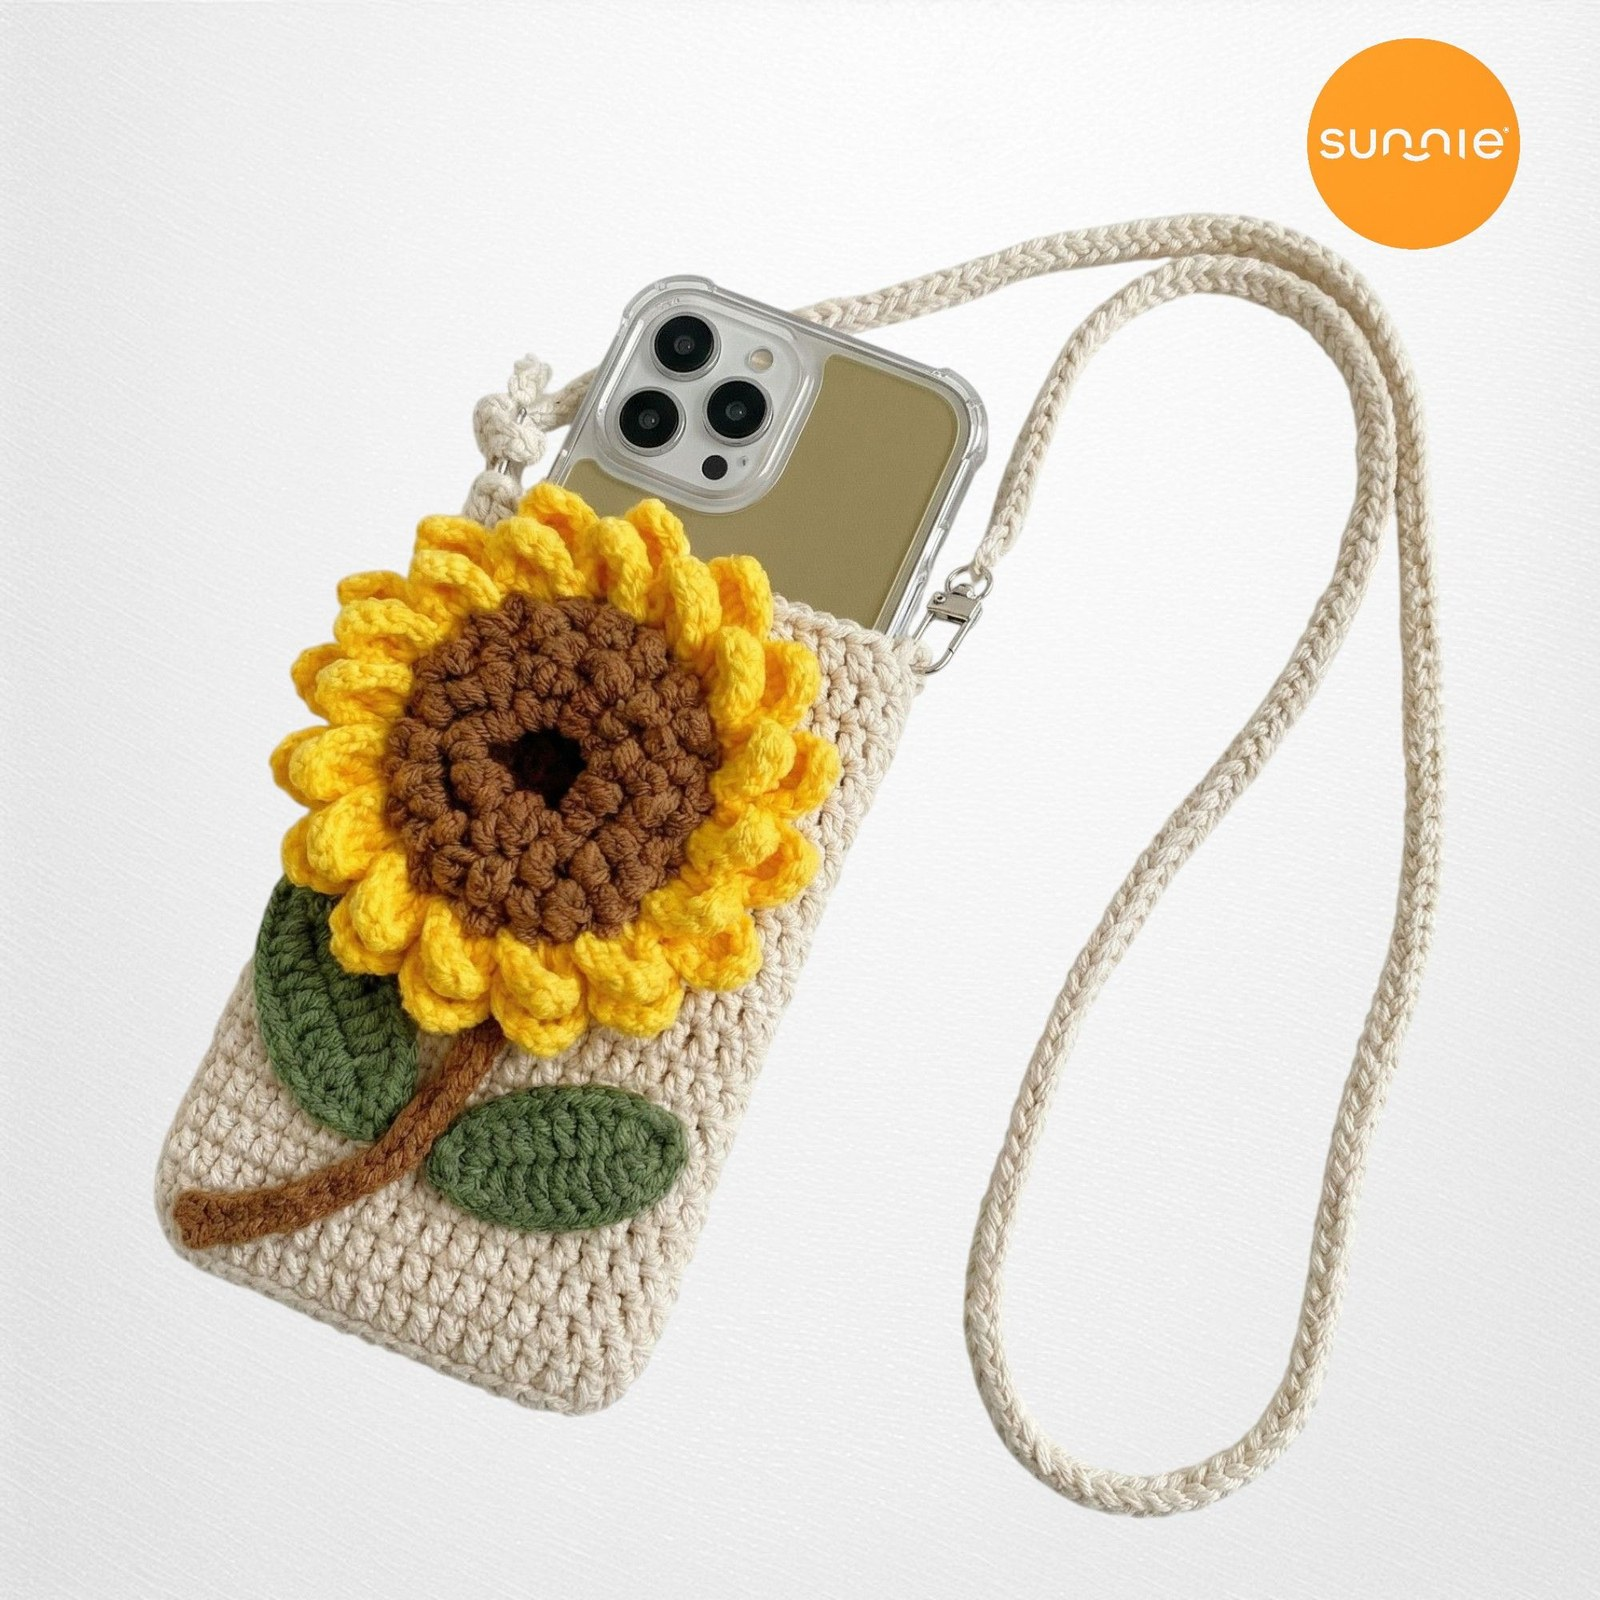
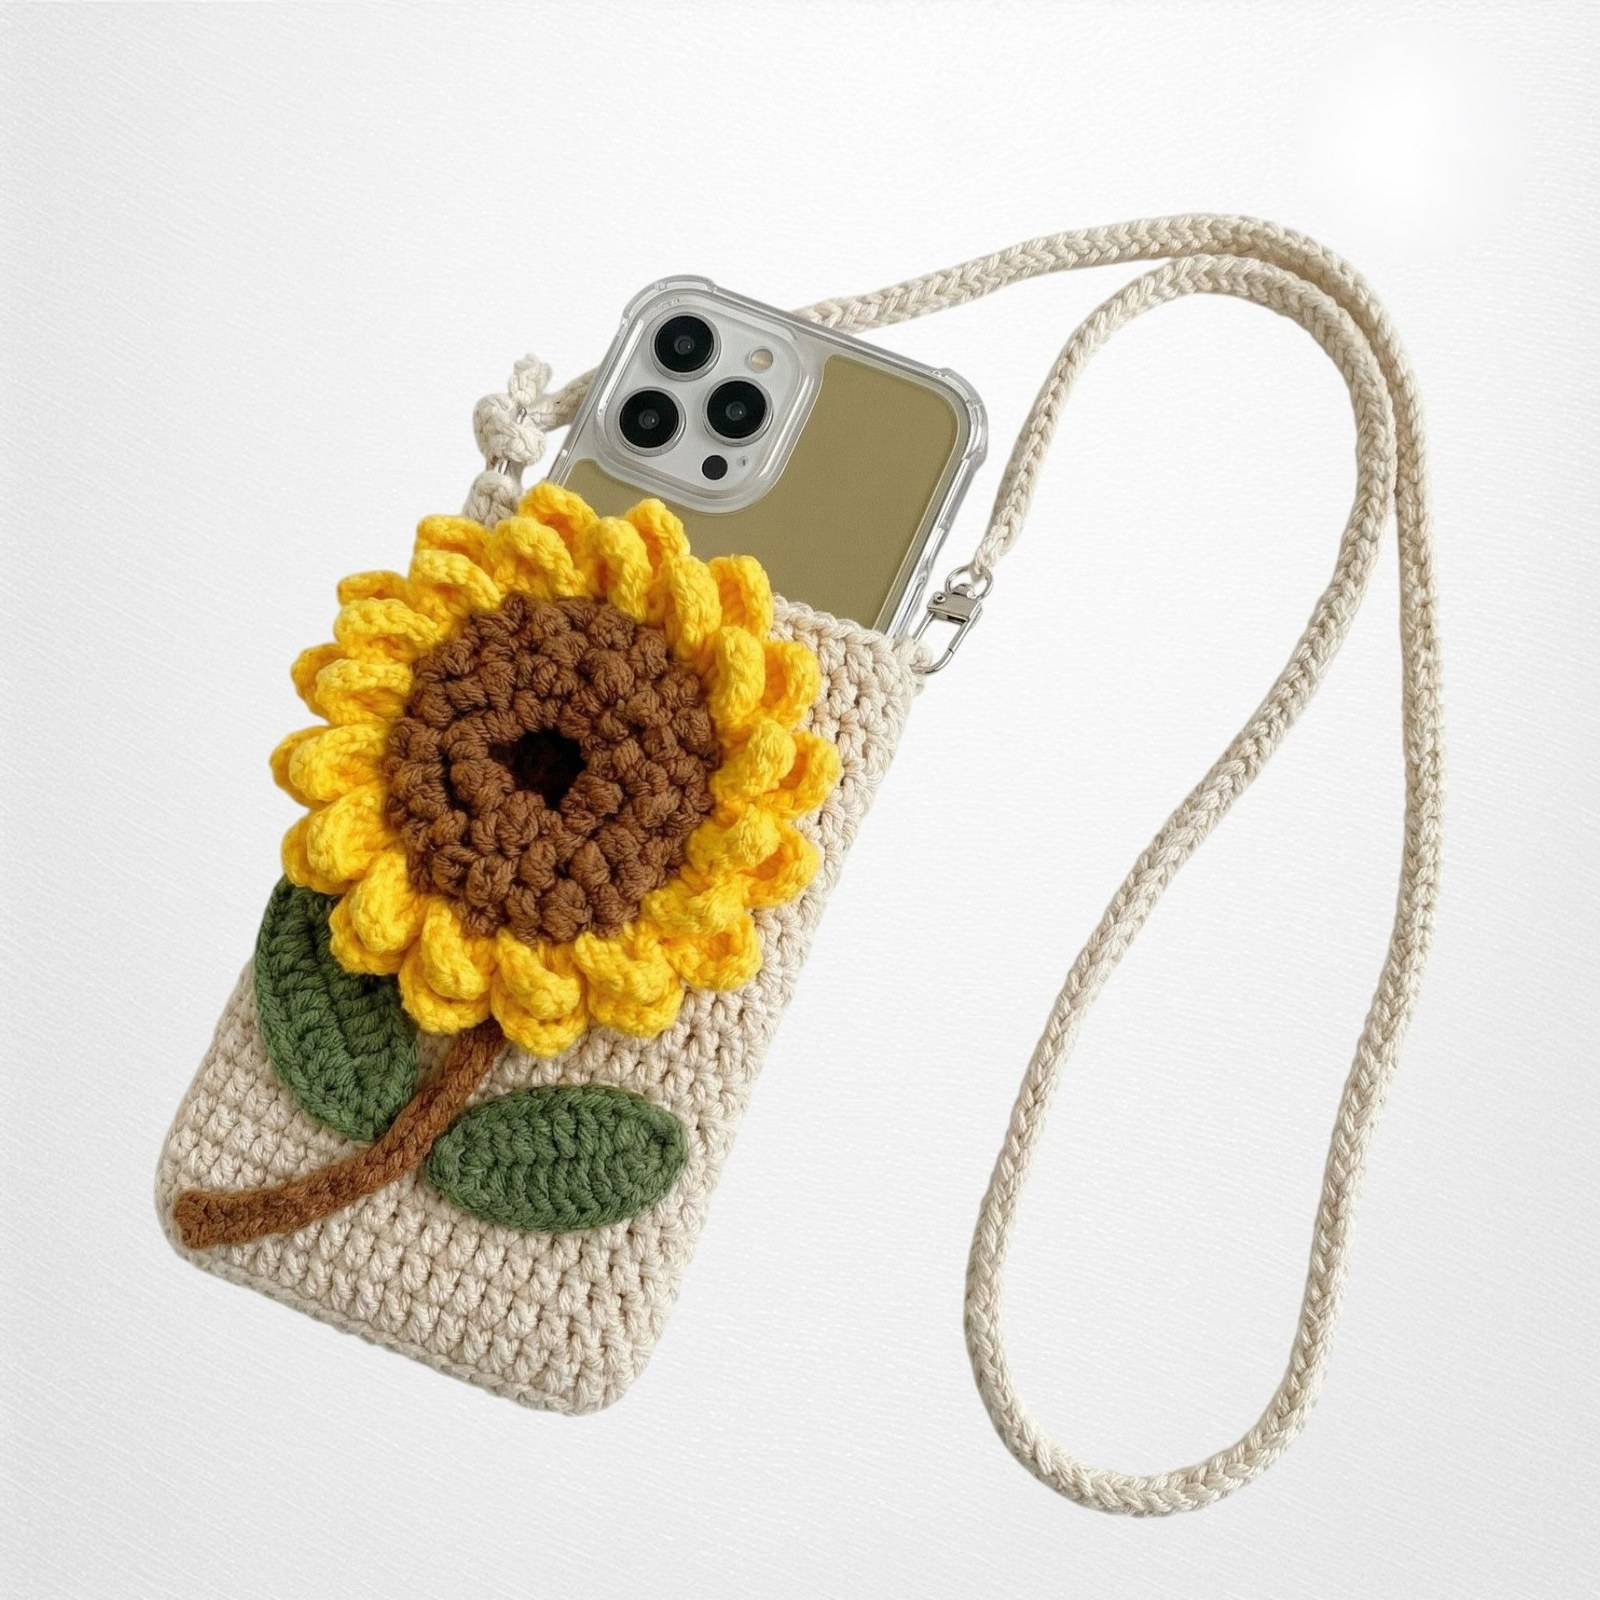
Petal Pockets: owner's second photo batch, Sunnie badges removed
Claude-Session: https://claude.ai/code/session_013Ai5AVsiZULjW3VsHRysAy

Changed region(s): [[0.8125, 0.0, 0.9688, 0.1562]]

diff --git a/src/data/landers.ts b/src/data/landers.ts
@@ -2100,7 +2100,7 @@ export const LANDERS: Lander[] = [
       h1: 'A crochet phone bag with a 3D rose or sunflower,',
       h1em: 'that carries your phone, cards and keys.',
       sub: 'Hui coils the rose petal by petal in soft pink, or layers the sunflower in rounds of yellow around a brown centre, then stitches it onto a cream bag with a green stem and leaves. A drawstring closes the top, and the strap is 110 cm.',
-      image: { src: 'landers/petal-pockets/petal-pockets-pair.jpg', alt: 'The rose bag and the sunflower bag hanging side by side from a wooden basket on a shelf' },
+      image: { src: 'landers/petal-pockets/petal-pockets-shelf.jpg', alt: 'The sunflower bag and the rose bag standing side by side on a wooden shelf, with their braided cream straps' },
       proof: { reviewer: 'Caitlin', date: '2026-02-13' },
     },
     story: {
@@ -2131,7 +2131,7 @@ export const LANDERS: Lander[] = [
       lede: 'Same bag, two flowers. Mix them in a bundle however you like.',
       cards: [
         { pick: 'Rose', title: 'Rose', text: 'A soft pink rose with spiralling, coiled petals, on a green stem with two leaves.', image: { src: 'landers/petal-pockets/petal-pockets-rose.jpg', alt: 'Cream crochet phone bag with a large pink 3D rose, a green stem and two leaves, on its braided strap' } },
-        { pick: 'Sunflower', title: 'Sunflower', text: 'A bright yellow sunflower with layered petals and a brown centre, on a brown stem with two leaves.', image: { src: 'products/3d-flower-crochet-phone-bag/3d-flower-crochet-phone-bag-03.jpg', alt: 'Cream crochet phone bag with a large yellow 3D sunflower and stem' } },
+        { pick: 'Sunflower', title: 'Sunflower', text: 'A bright yellow sunflower with layered petals and a brown centre, on a brown stem with two leaves.', image: { src: 'landers/petal-pockets/petal-pockets-sunflower.jpg', alt: 'Cream crochet phone bag with a large yellow 3D sunflower, a brown stem and two green leaves, on its braided strap' } },
       ],
       note: 'Can’t choose? Take two and get one of each.',
     },
@@ -2144,7 +2144,7 @@ export const LANDERS: Lander[] = [
         ['Gifts.', 'For a friend who loves flowers, or one who loves sunflowers in particular.'],
       ],
       images: [
-        { src: 'landers/petal-pockets/petal-pockets-rose-worn.jpg', alt: 'The rose bag worn crossbody over a grey sweatshirt, seen from behind' },
+        { src: 'landers/petal-pockets/petal-pockets-rose-worn-front.jpg', alt: 'The rose bag worn crossbody over a grey zip-up sweatshirt and skirt' },
         { src: 'landers/petal-pockets/petal-pockets-sunflower-worn.jpg', alt: 'The sunflower bag worn crossbody over a black top and a white ruffled skirt' },
       ],
     },
@@ -2154,7 +2154,7 @@ export const LANDERS: Lander[] = [
         'Hui crochets the cream bag first, then builds the flower on its own: the rose coiled petal by petal, or the sunflower in layered rounds around its centre. Last come the stem and the two leaves.',
         'Because a person shapes each flower, no two come out exactly alike.',
       ],
-      image: { src: 'products/3d-flower-crochet-phone-bag/3d-flower-crochet-phone-bag-08.jpg', alt: 'A hand holding the sunflower bag up close, showing the layered yellow petals and brown centre' },
+      image: { src: 'landers/petal-pockets/petal-pockets-sunflower-held.jpg', alt: 'A hand holding the sunflower bag up by its braided strap, showing the layered yellow petals and brown centre' },
     },
     offer: {
       h: 'Pick your bags',

diff --git a/src/i18n/de/landers.ts b/src/i18n/de/landers.ts
@@ -1719,7 +1719,7 @@ export const LANDERS_DE: Record<string, LanderDe> = {
       h1: 'Eine gehäkelte Handytasche mit 3D-Rose oder Sonnenblume,',
       h1em: 'die Handy, Karten und Schlüssel trägt.',
       sub: 'Hui formt die Rose Blatt für Blatt in zartem Rosa oder legt die Sonnenblume in gelben Runden um eine braune Mitte und näht sie dann auf eine cremefarbene Tasche mit Stiel und grünen Blättern. Ein Kordelzug schließt die Tasche oben, und der Gurt ist 110 cm lang.',
-      alt: 'Die Rosentasche und die Sonnenblumentasche nebeneinander an einem Holzkorb auf einem Regal',
+      alt: 'Die Sonnenblumentasche und die Rosentasche nebeneinander auf einem Holzregal, mit ihren geflochtenen cremefarbenen Gurten',
     },
     story: {
       h: 'Blumen, die du jeden Tag tragen kannst.',
@@ -1749,7 +1749,7 @@ export const LANDERS_DE: Record<string, LanderDe> = {
       lede: 'Dieselbe Tasche, zwei Blumen. Kombiniere sie im Set, wie du magst.',
       cards: [
         { title: 'Rose', text: 'Eine zartrosa Rose mit spiralförmig gewundenen Blütenblättern, an einem grünen Stiel mit zwei Blättern.', alt: 'Cremefarbene gehäkelte Handytasche mit großer rosa 3D-Rose, grünem Stiel und zwei Blättern, am geflochtenen Gurt' },
-        { title: 'Sonnenblume', text: 'Eine leuchtend gelbe Sonnenblume mit gelagerten Blütenblättern und brauner Mitte, an einem braunen Stiel mit zwei Blättern.', alt: 'Cremefarbene gehäkelte Handytasche mit großer gelber 3D-Sonnenblume und Stiel' },
+        { title: 'Sonnenblume', text: 'Eine leuchtend gelbe Sonnenblume mit gelagerten Blütenblättern und brauner Mitte, an einem braunen Stiel mit zwei Blättern.', alt: 'Cremefarbene gehäkelte Handytasche mit großer gelber 3D-Sonnenblume, braunem Stiel und zwei grünen Blättern, am geflochtenen Gurt' },
       ],
       note: 'Du kannst dich nicht entscheiden? Nimm zwei, je eine von beiden.',
     },
@@ -1762,7 +1762,7 @@ export const LANDERS_DE: Record<string, LanderDe> = {
         ['Geschenke.', 'Für eine Freundin, die Blumen liebt, oder eine, die ganz besonders Sonnenblumen liebt.'],
       ],
       alts: [
-        'Die Rosentasche quer über einem grauen Sweatshirt getragen, von hinten',
+        'Die Rosentasche quer über einer grauen Sweatjacke und Rock getragen',
         'Die Sonnenblumentasche quer über einem schwarzen Oberteil und weißem Rüschenrock getragen',
       ],
     },
@@ -1772,7 +1772,7 @@ export const LANDERS_DE: Record<string, LanderDe> = {
         'Hui häkelt zuerst die cremefarbene Tasche und baut dann die Blume einzeln auf: die Rose Blatt für Blatt gewunden oder die Sonnenblume in gelagerten Runden um ihre Mitte. Zum Schluss kommen der Stiel und die zwei Blätter.',
         'Weil ein Mensch jede Blume formt, gleicht keine genau der anderen.',
       ],
-      alt: 'Eine Hand hält die Sonnenblumentasche nah und zeigt die gelagerten gelben Blütenblätter und die braune Mitte',
+      alt: 'Eine Hand hält die Sonnenblumentasche am geflochtenen Gurt hoch und zeigt die gelagerten gelben Blütenblätter und die braune Mitte',
     },
     offer: {
       h: 'Wähle deine Taschen',
